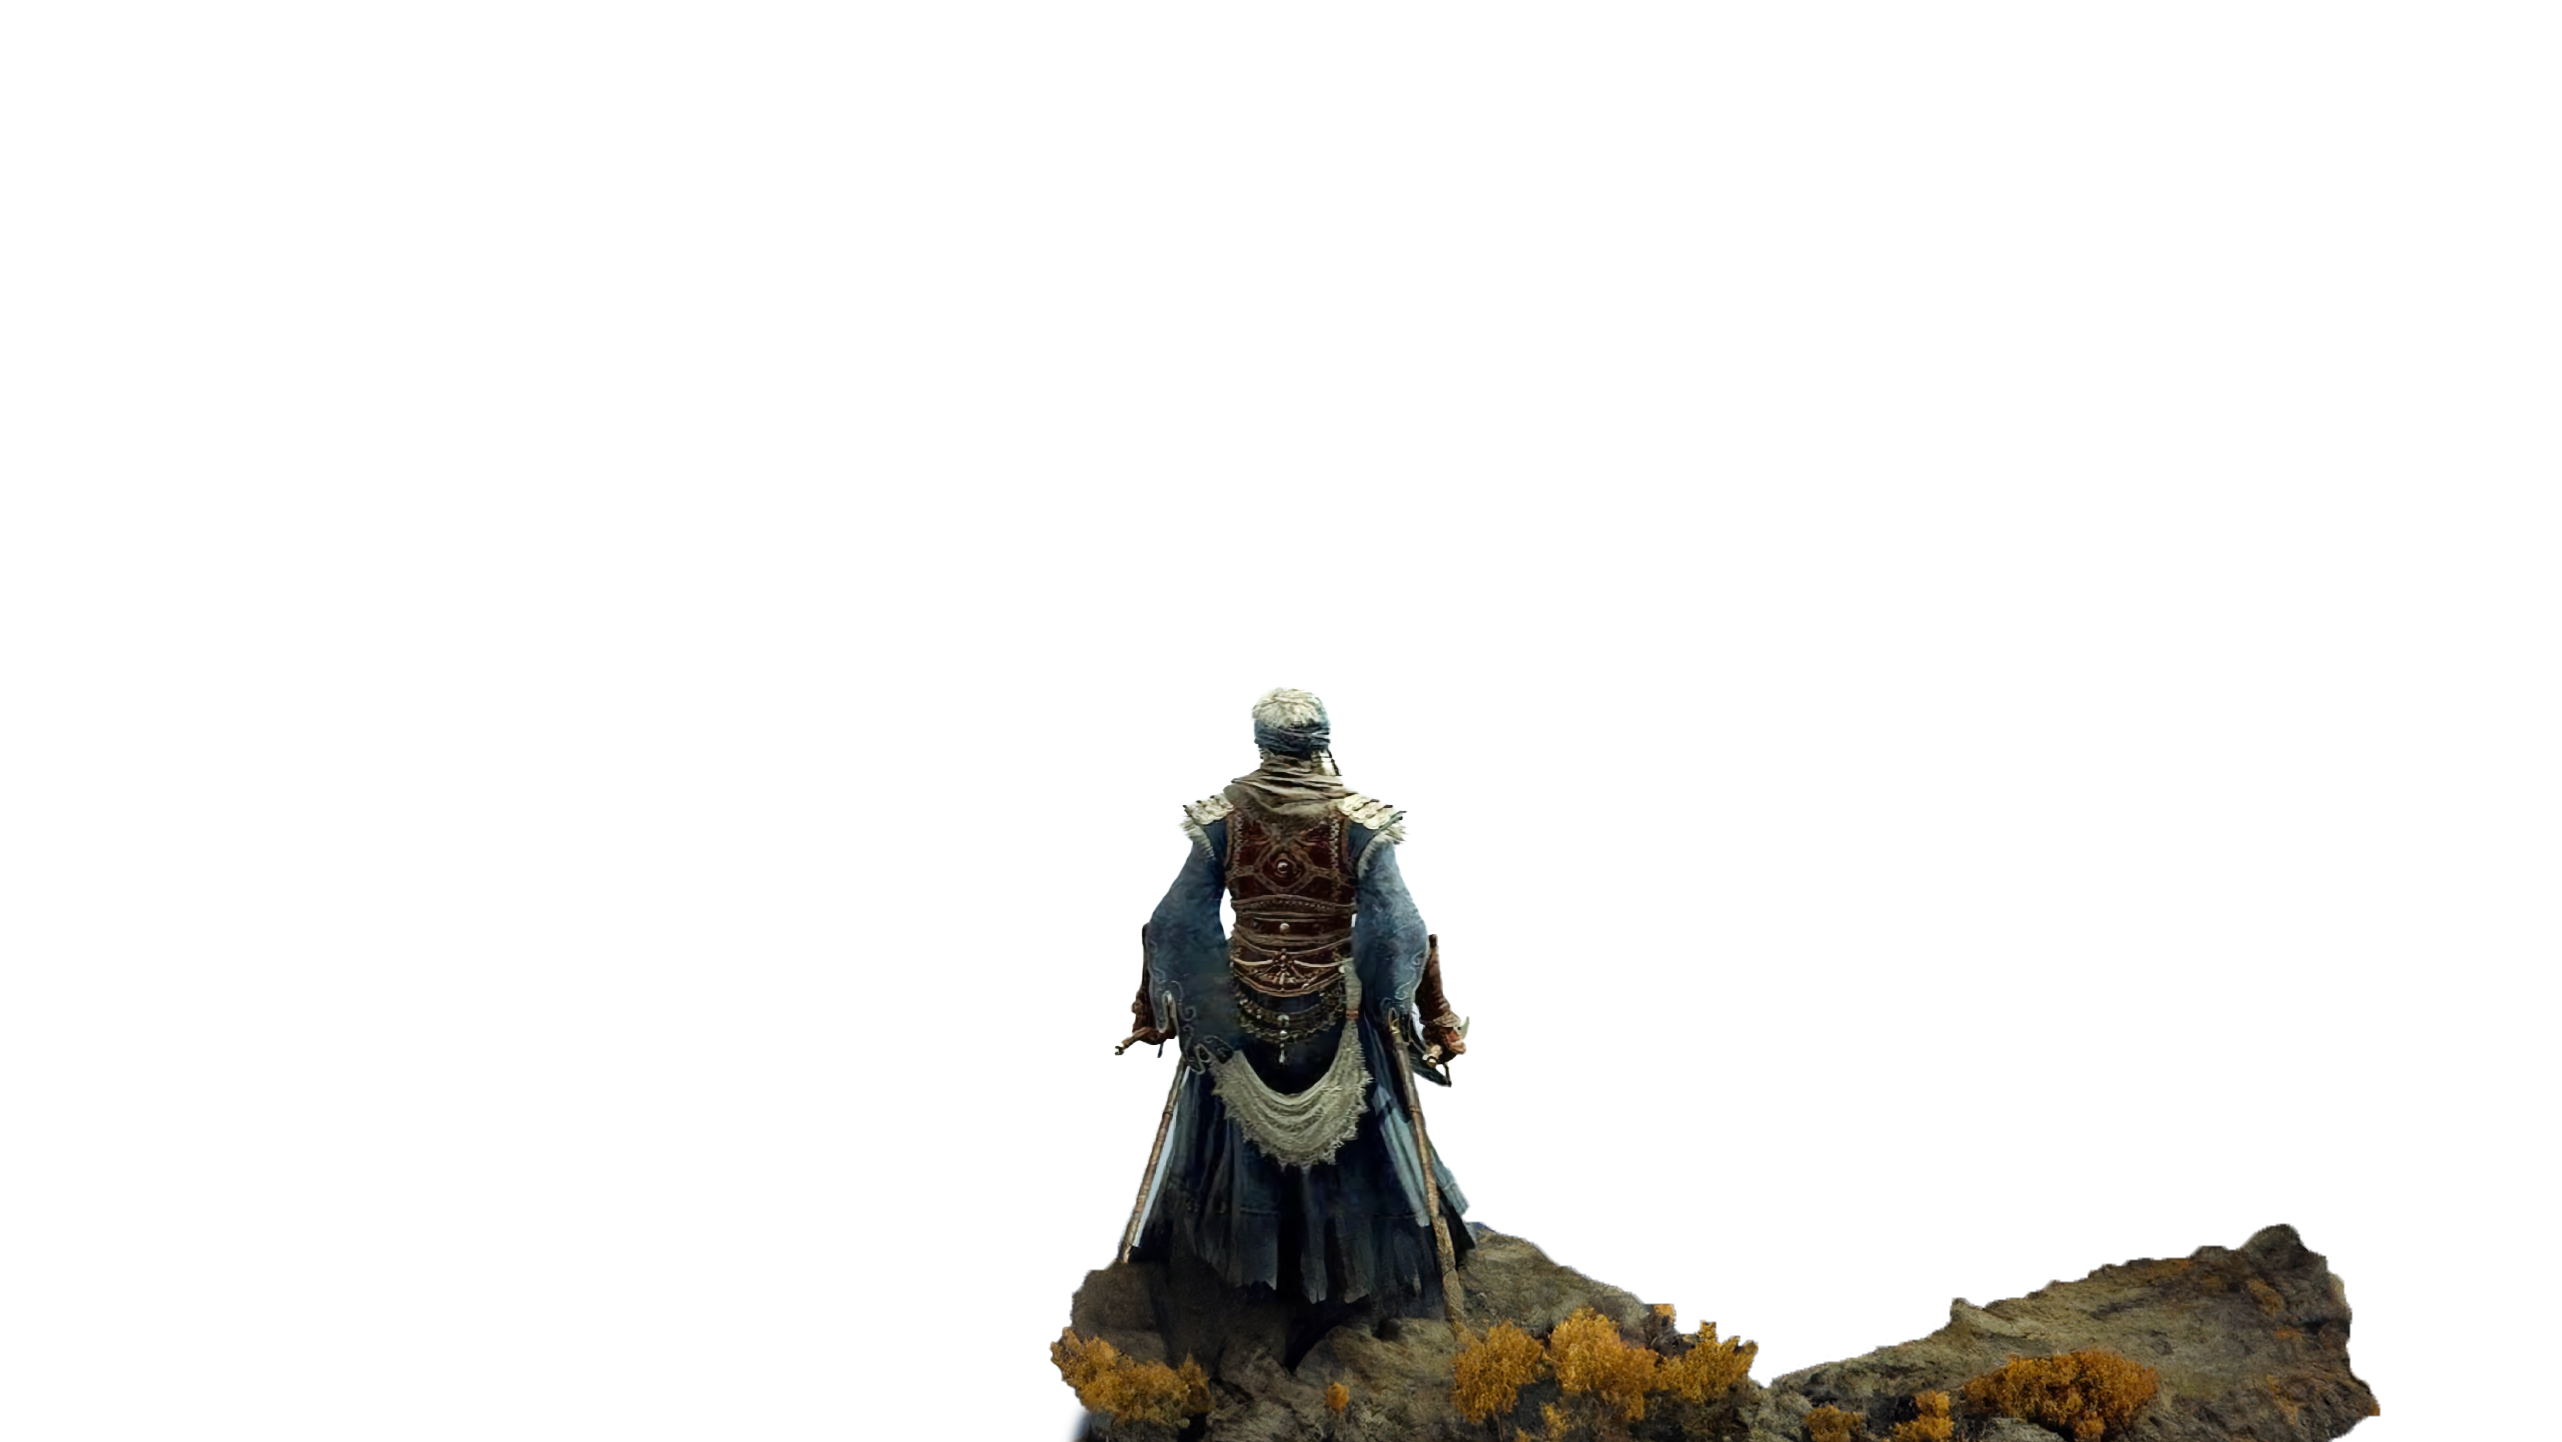
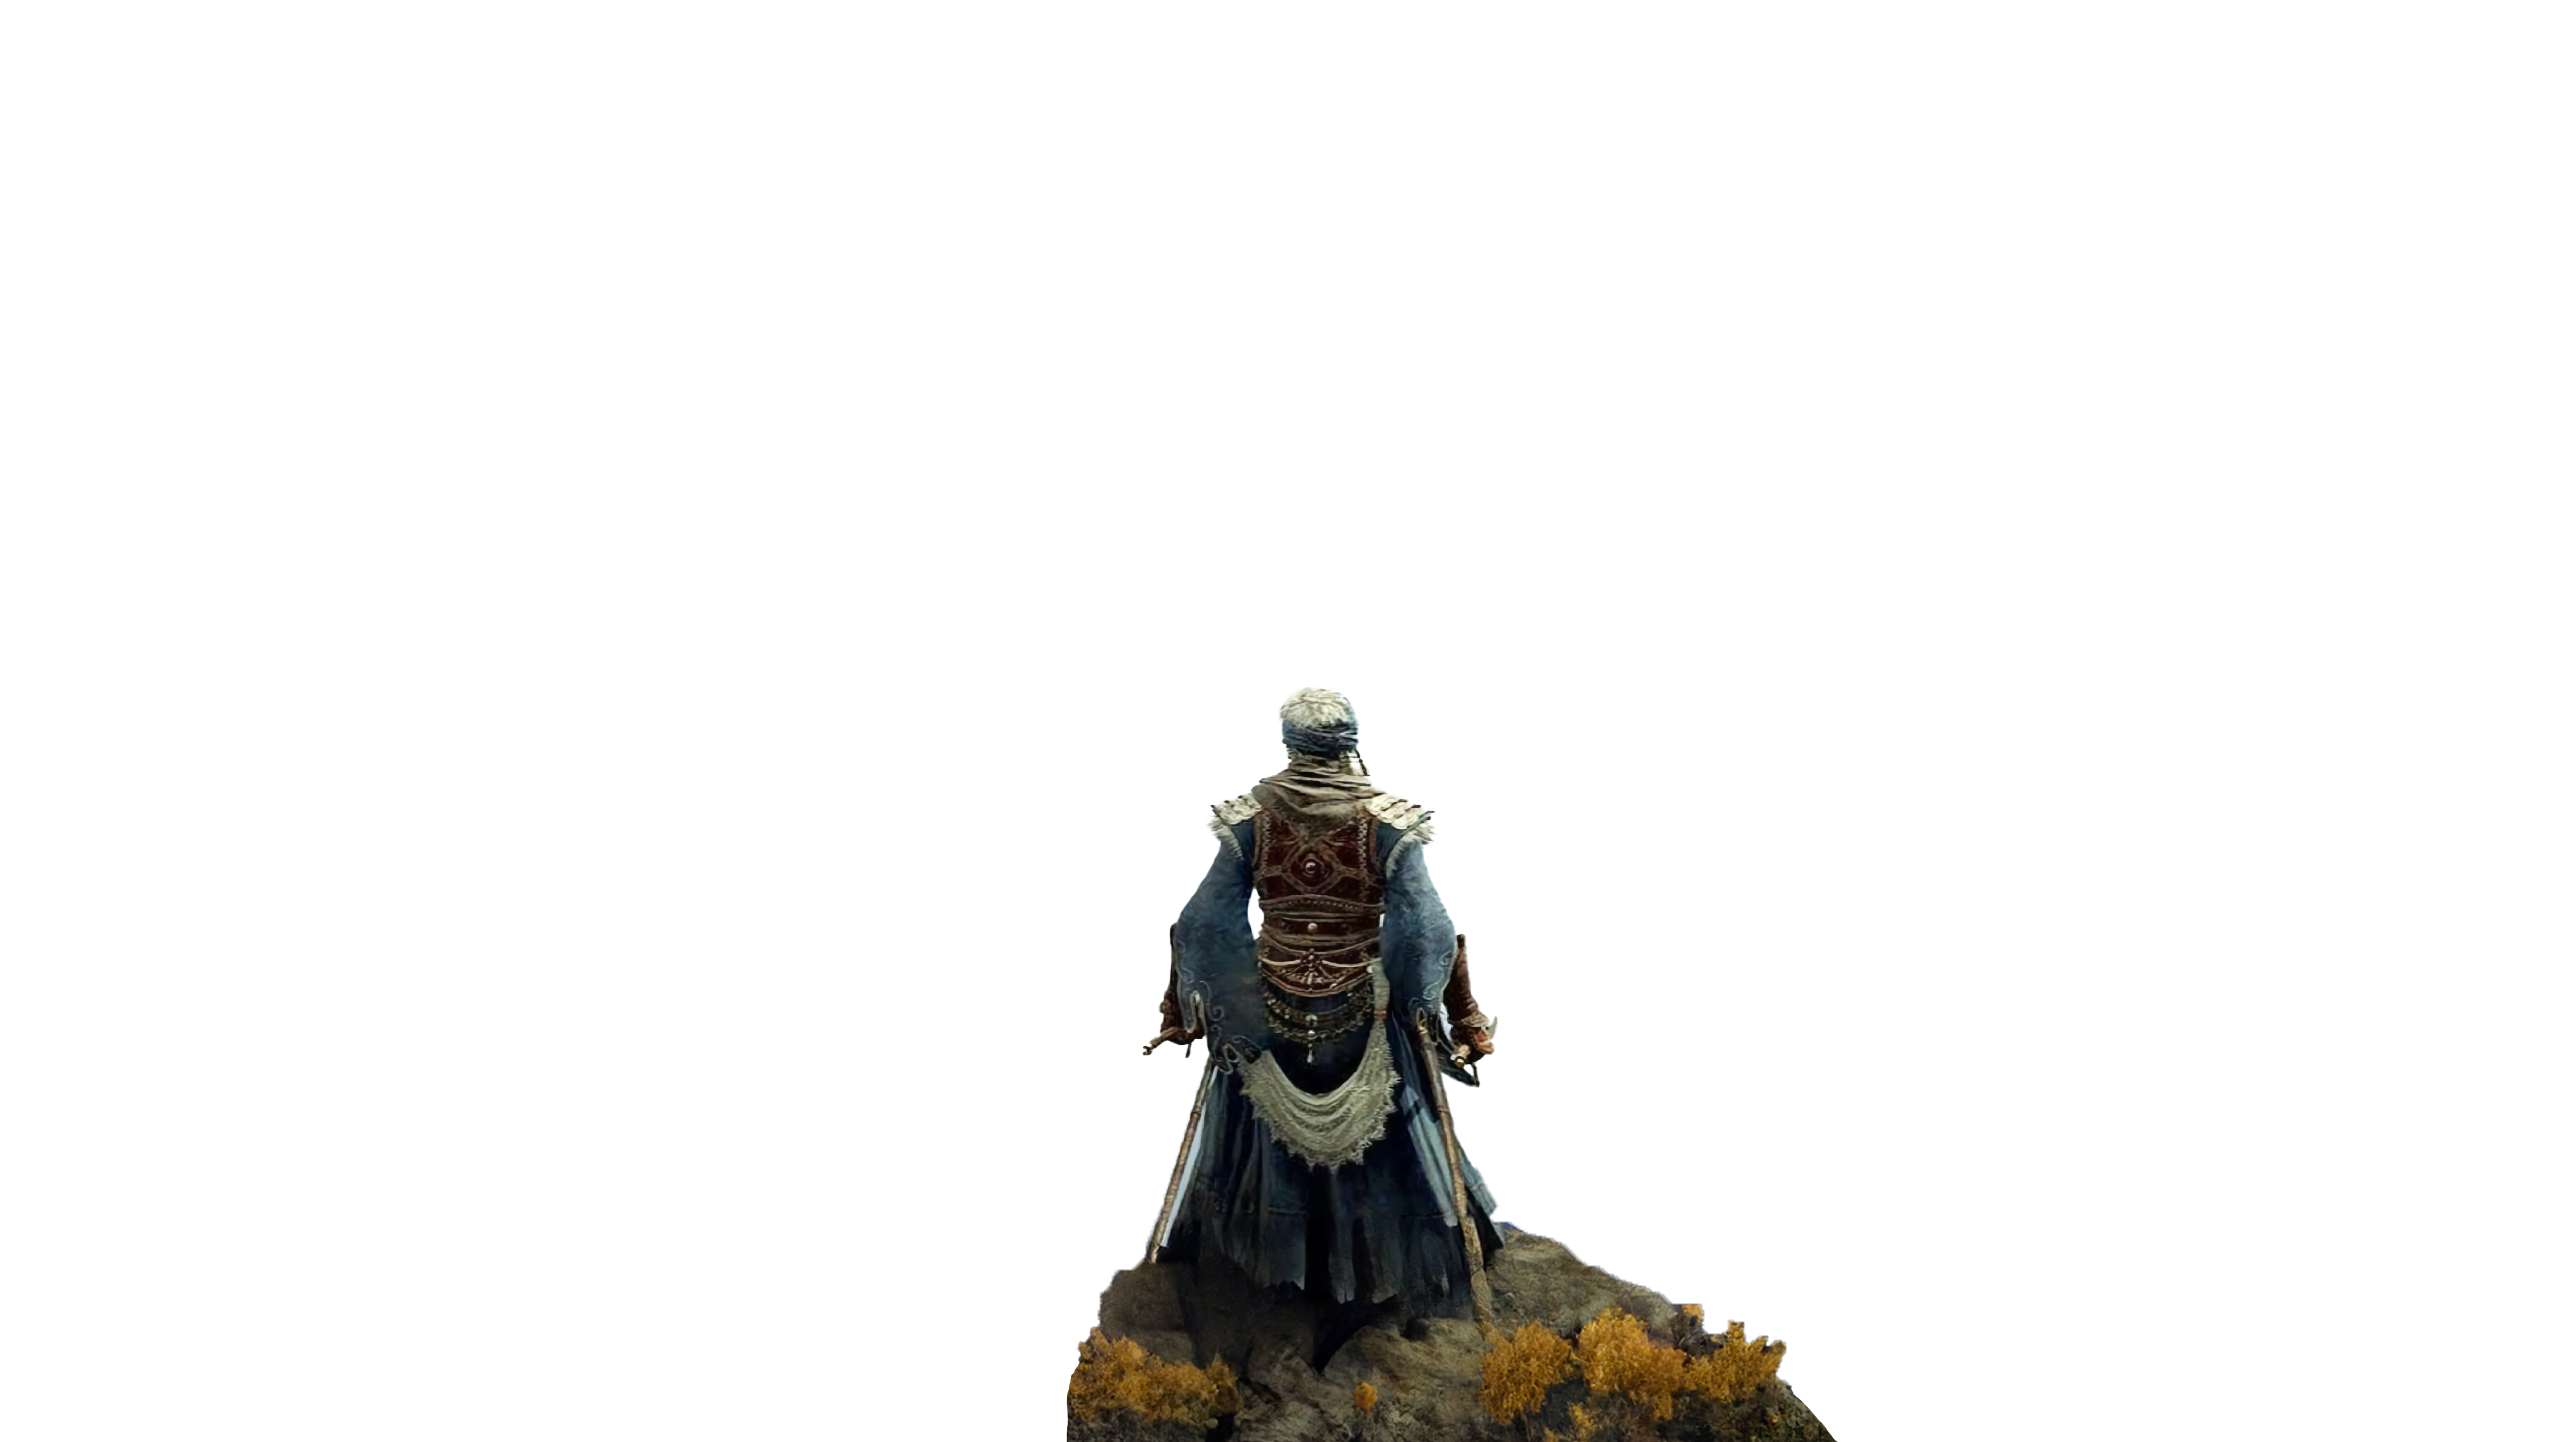
feature: parallax scroll

Changed region(s): [[0.4059, 0.4681, 0.9368, 1.0]]

diff --git a/src/Pages/Home.jsx b/src/Pages/Home.jsx
@@ -5,15 +5,12 @@ import { Parallax } from 'react-parallax';
 const Home = () => {
   return(
       <>
-        <Parallax blur={0} bgImage="../assets/parallax/full.png" bgImageAlt="background" strength={-200}>
+        <Parallax blur={0} bgImage="../assets/parallax/full.png" bgImageAlt="background" strength={1}>
           <div className='content'>
             <span className='img-txt'>JOURNEY THROUGH THE LANDS BETWEEN</span>
             <img src="../assets/parallax/hero.png" alt='hero' className='hero'/>
           </div>
         </Parallax>
-        <div className='bg-dark h-screen'>
-         
-        </div>
       </>
   )
 }

diff --git a/src/style.css b/src/style.css
@@ -126,27 +126,19 @@
   align-items: center;
   width: 100%;
   height: 100vh;
-  z-index: -1;
+  z-index: 0;
 }
 .img-txt{
   color: #252525;
   text-transform: uppercase;
   letter-spacing: 5px;   
   font-weight: bold;
+  margin-bottom: 3em;
   font-size: 2em;   
-
 }
 .hero{
   position: fixed; 
   bottom: 0;
   left: 0;
   height: 100%;
-  z-index: 3;
 }
-/*
-.intro{
-  display: flex;
-  justify-content: center;
-  font-size: 3em;
-  z-index: 1;
-} */

diff --git a/src/Pages/PageNotFound.jsx b/src/Pages/PageNotFound.jsx
@@ -4,6 +4,7 @@ import { Link } from "react-router-dom";
 const PageNotFound = () => {
     return(
         <div className="page404">
+                <img src="../assets/parallax/404.jpg" alt='dragon and knight' />
           <div className="middle">
                 <h1>404</h1>
                 <h6>Did not found the page</h6>
